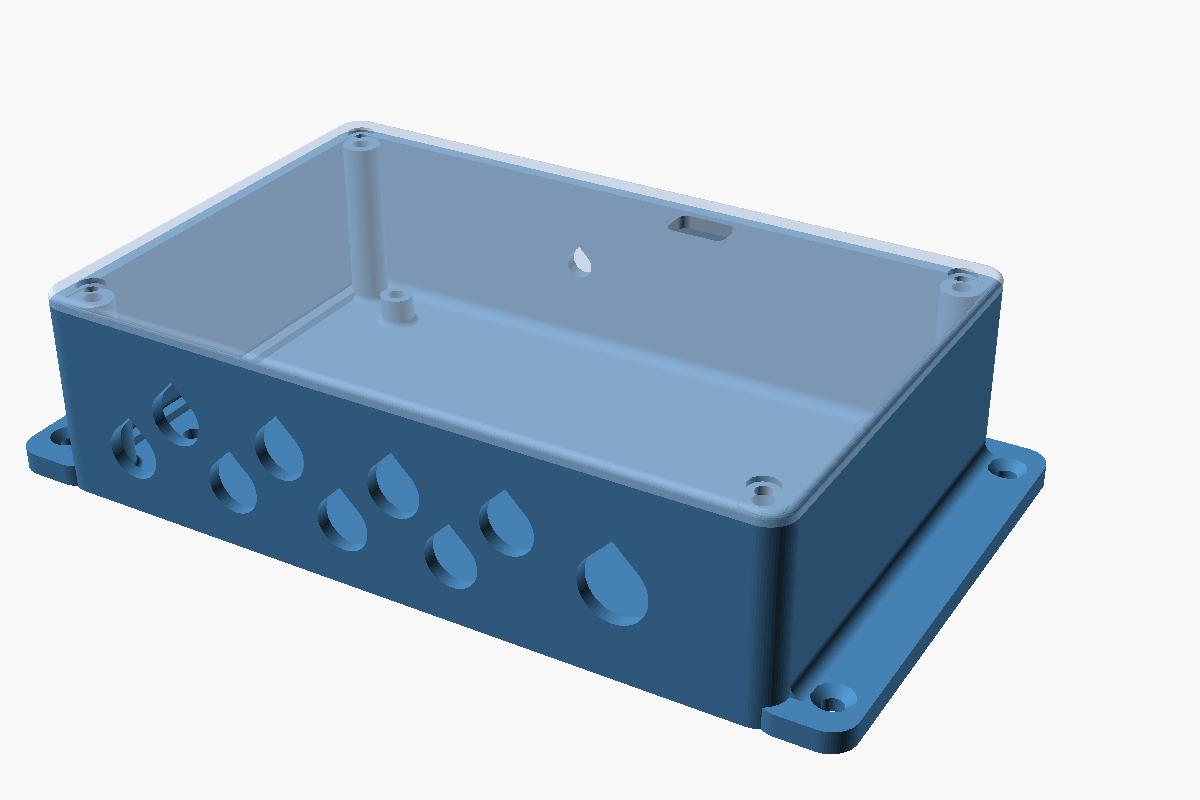
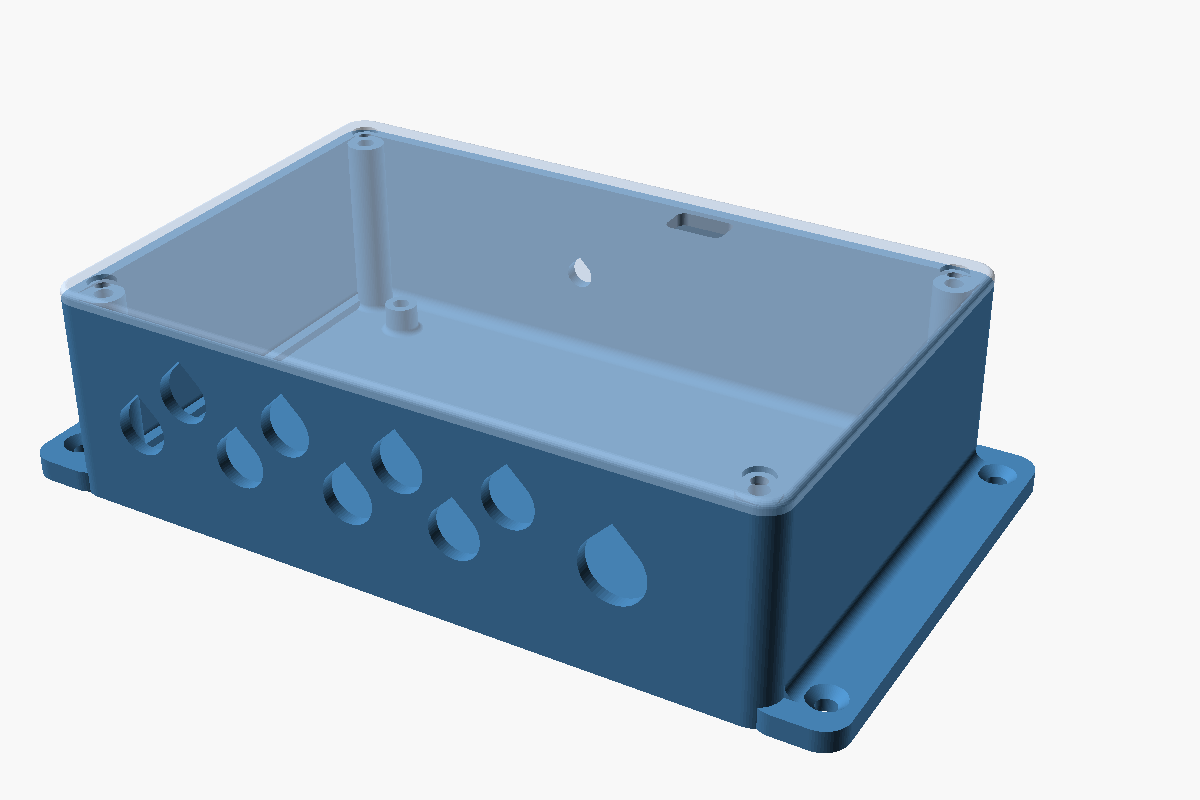
Use measured E8 component and terminal-entry heights
X5 is the tallest part at 28 mm, so the box is 3.6 mm taller. The output
entries sit at 13 and 21 mm; the gland rows are spread to 11.5 mm around
them so the staggered lock-nuts clear each other.

Claude-Session: https://claude.ai/code/session_01PuoFiuiACJXNWaBRiLi4Zd

diff --git a/examples/enclosure/README.md b/examples/enclosure/README.md
@@ -11,9 +11,9 @@ in OpenSCAD, set `part`, press F6 and export the STL.
 
 | | |
 |---|---|
-| Outside, without flanges | 171 × 111 × 47 mm |
+| Outside, without flanges | 171 × 111 × 50.6 mm |
 | Footprint with flanges | 199 × 111 mm |
-| Cavity | 165 × 105 × 41 mm |
+| Cavity | 165 × 105 × 44.6 mm |
 
 ## Layout
 
@@ -41,11 +41,13 @@ calipers is worth it for these:
 |---|---|---|
 | `block_x`, `power_x` | 10.2 / 36.7 / 64.2 / 89.9, 119.2 mm | Centre of X1–X4 (the D pin) and of X5 |
 | `usb_x`, `usb_y` | 87.0, 82.0 mm | USB-C centre |
-| `board_comp_h` | 24.4 mm | Tallest part above the PCB (the fuses or the terminals) |
+| `power_entry_h` | 14 mm | Height of X5's wire entry above the PCB |
 
-One thing the photo can't settle: the gland rows sit about 3 mm and 15 mm above the PCB
-(`lower_z`, `upper_z`). Measure how high the two wire entries of a block are and move the
-rows to match, so each cable runs straight in.
+Measured on a real board: the X5 block is the tallest part at 28 mm above the PCB, and the
+output blocks' wire entries are at 13 mm (lower) and 21 mm (upper). The entries are only 8 mm
+apart, which is too close for staggered M12 lock-nuts, so the gland rows are spread to
+11.5 mm (`gland_row_dz`) and sit at 10.5 and 22 mm. Each cable bends by 1–2.5 mm on its way
+in, which the 11 mm front gap takes easily.
 
 ## Hardware per enclosure
 
